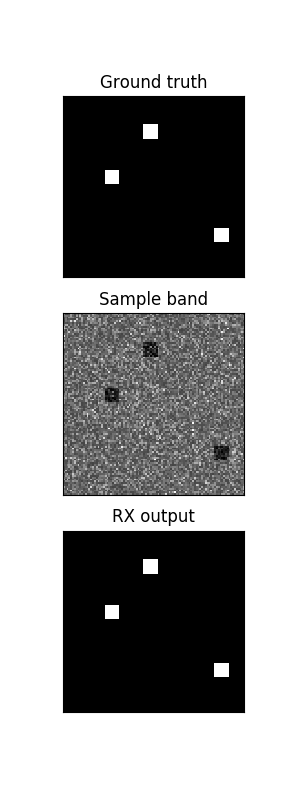
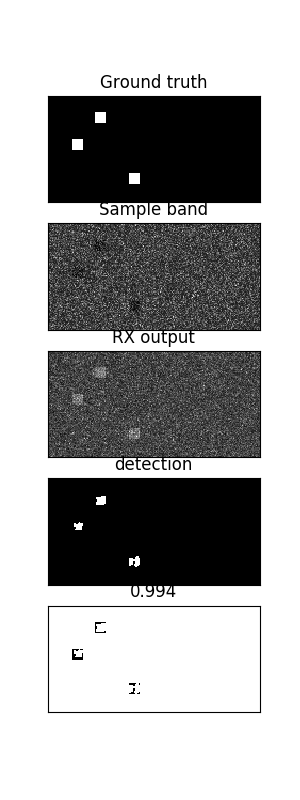
Something

diff --git a/hspectral/tests/test_detectors.py b/hspectral/tests/test_detectors.py
@@ -10,21 +10,29 @@ from sklearn.preprocessing import normalize
 
 def test_RX():
     X, y = generators.generate_anomaly(random_state=2, n_anomalies = 3,
-                                       a_size = 8,
-                                       noise_scale = .3, shape=(100,100,50))
+                                       a_size = 10,
+                                       noise_scale = 1, shape=(100,200,50))
     sigma, inv_sigma, result = detectors.RX(X)
-    detection = detectors.anisomedian_decision(result)
+    detection = detectors.anisomedian_decision(result, percentile=50)
 
     # Plot something
-    fig, ax = plt.subplots(3,1, figsize=(3,8))
+    fig, ax = plt.subplots(5,1, figsize=(3,8))
     ax[0].imshow(y, cmap='gray')
     ax[0].set_title('Ground truth')
+
     ax[1].imshow(X[:,:,30], cmap='gray')
     ax[1].set_title('Sample band')
+
+    ax[2].imshow(result, cmap='gray')
     ax[2].set_title('RX output')
 
+    ax[3].imshow(detection, cmap='gray')
+    ax[3].set_title("detection")
 
-    ax[2].imshow(detection, cmap='gray')
+    accuracy = np.sum(detection == y) / (detection.shape[0] * detection.shape[1])
+
+    ax[4].imshow(detection == y, cmap='gray')
+    ax[4].set_title("%.3f" % accuracy)
 
 
     # remove the x and y ticks
